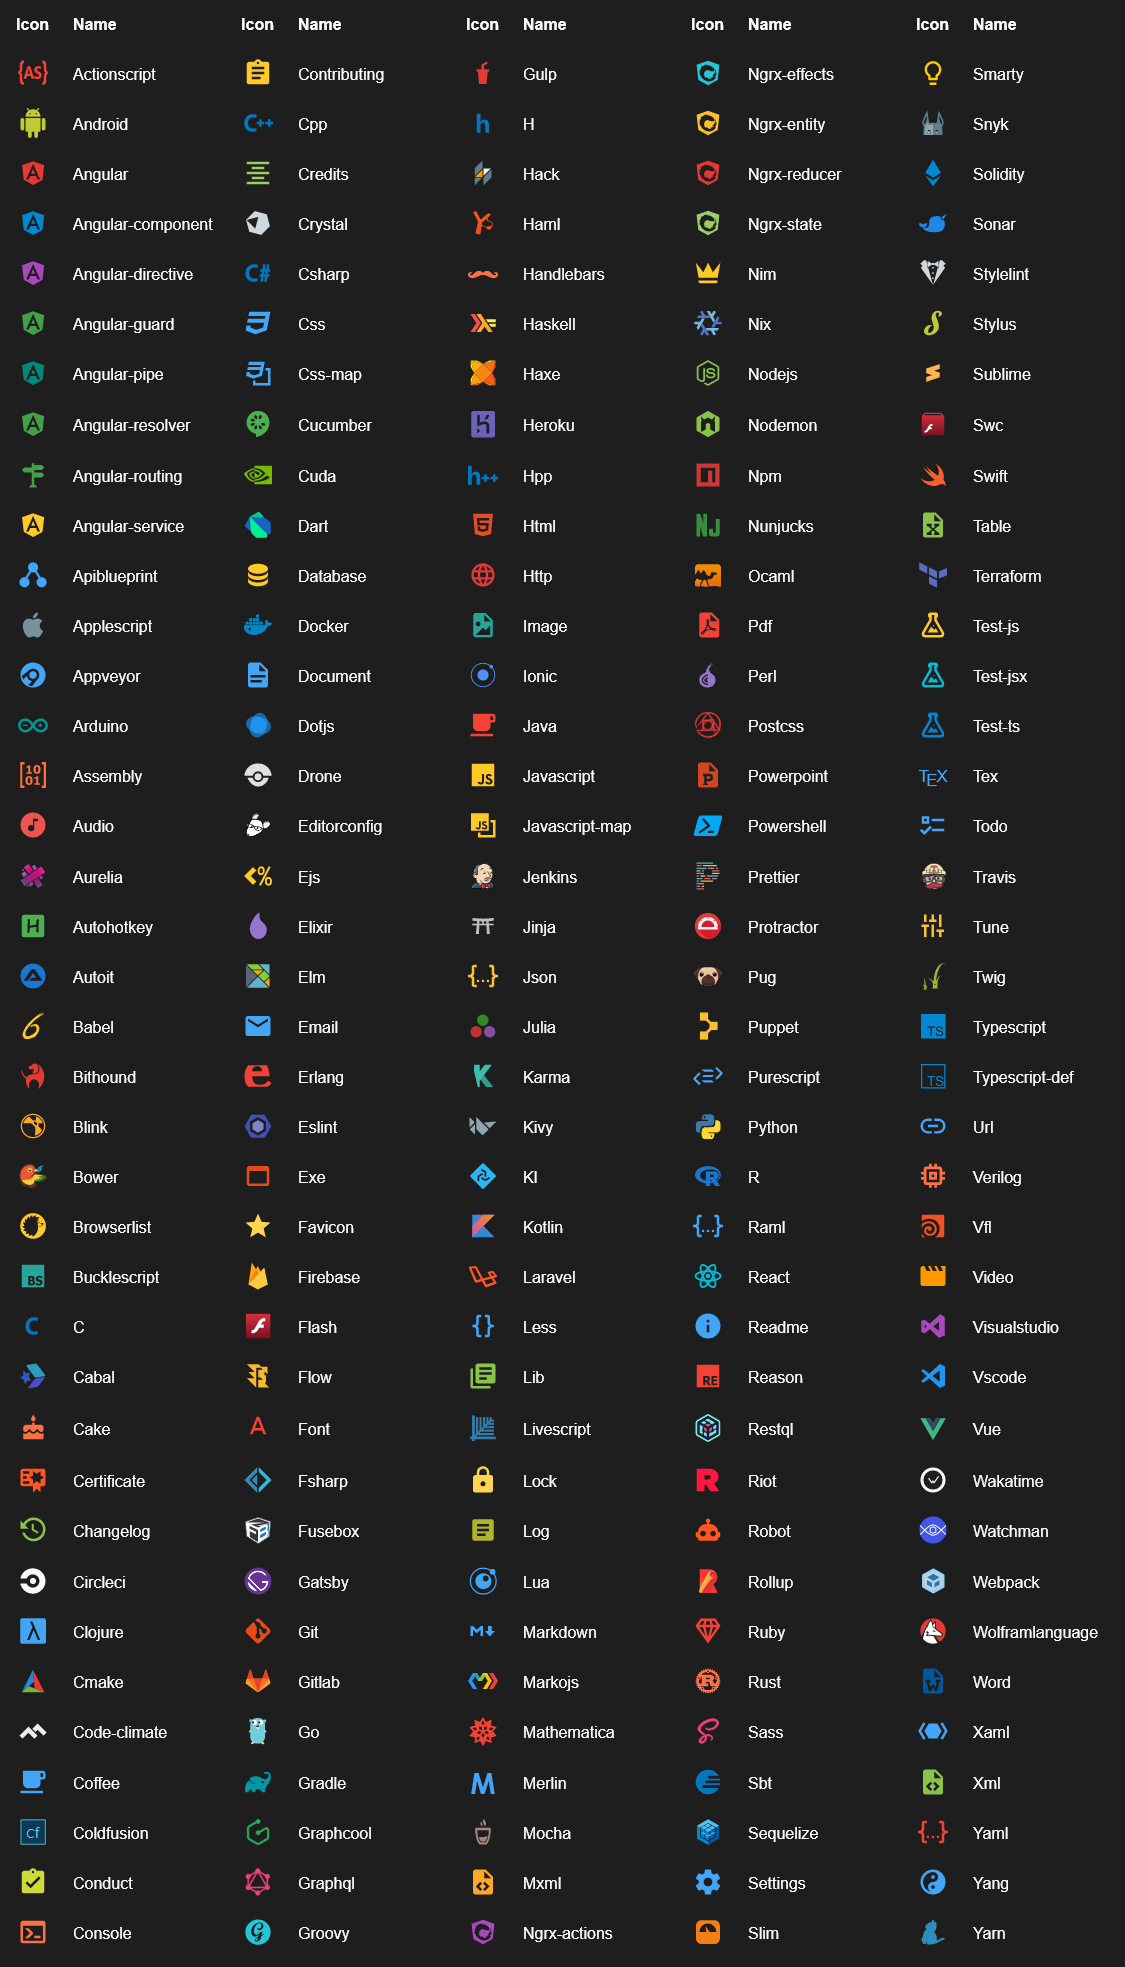
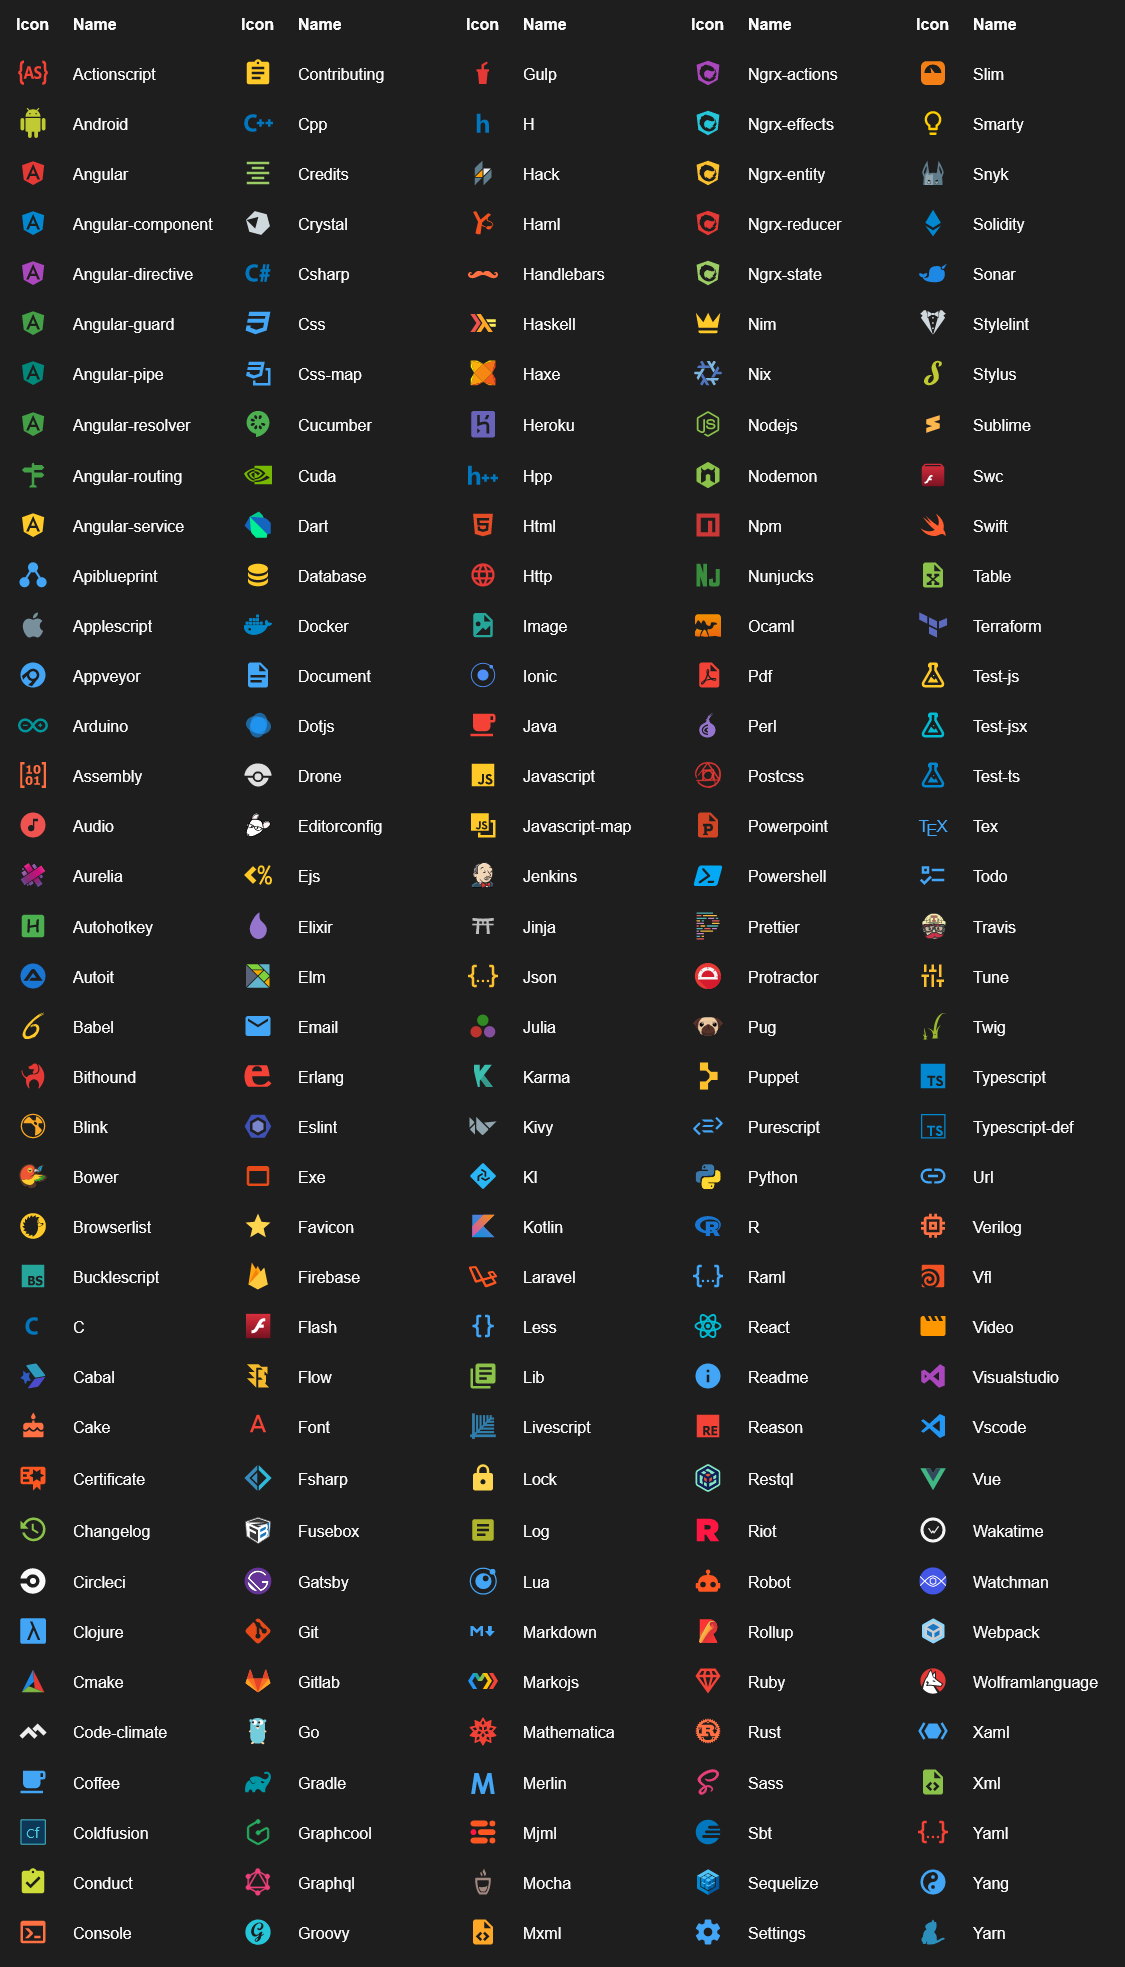
Release 3.2.3

diff --git a/scripts/preview/index.ts b/scripts/preview/index.ts
@@ -25,5 +25,5 @@ const folderThemes = filterDuplicates(folderIcons.map(theme => {
     return [].concat(...folders);
 }).reduce((a, b) => a.concat(b))).map(i => ({ iconName: i, label: i.replace('folder-', '') }));
 
-generatePreview('fileIcons', basicFileIcons, 5, ['key', 'virtual']);
+generatePreview('fileIcons', basicFileIcons, 5, ['key', 'virtual', 'word']);
 generatePreview('folderIcons', folderThemes, 5, ['folder', 'folder-expo']);

diff --git a/CHANGELOG.md b/CHANGELOG.md
@@ -1,4 +1,21 @@
-# Change Log
+# Changelog
+## 3.2.3 (2018-02-20)
+### New icons
+- WordPress folder ([@frederick036](https://github.com/frederick036) in [#194](https://github.com/PKief/vscode-material-icon-theme/pull/194))
+- Gradle folder ([issue #112](https://github.com/PKief/vscode-material-icon-theme/issues/112))
+- coverage folder ([issue #192](https://github.com/PKief/vscode-material-icon-theme/issues/192))
+- other folder ([issue #187](https://github.com/PKief/vscode-material-icon-theme/issues/187))
+- mjml ([@LukasPolak](https://github.com/LukasPolak) in [#200](https://github.com/PKief/vscode-material-icon-theme/pull/200))
+- PostgreSQL icon mappings ([issue #197](https://github.com/PKief/vscode-material-icon-theme/issues/197))
+- .postcssrc ([@Faultless](https://github.com/Faultless) in [#202](https://github.com/PKief/vscode-material-icon-theme/pull/202))
+- TypeScript folder ([issue #199](https://github.com/PKief/vscode-material-icon-theme/issues/199))
+
+### Updated icons
+- Font folder
+- Git folder
+- Sass folder
+- Views folder
+- TypeScript
 
 ## 3.2.2 (2018-01-28)
 ### New icons
